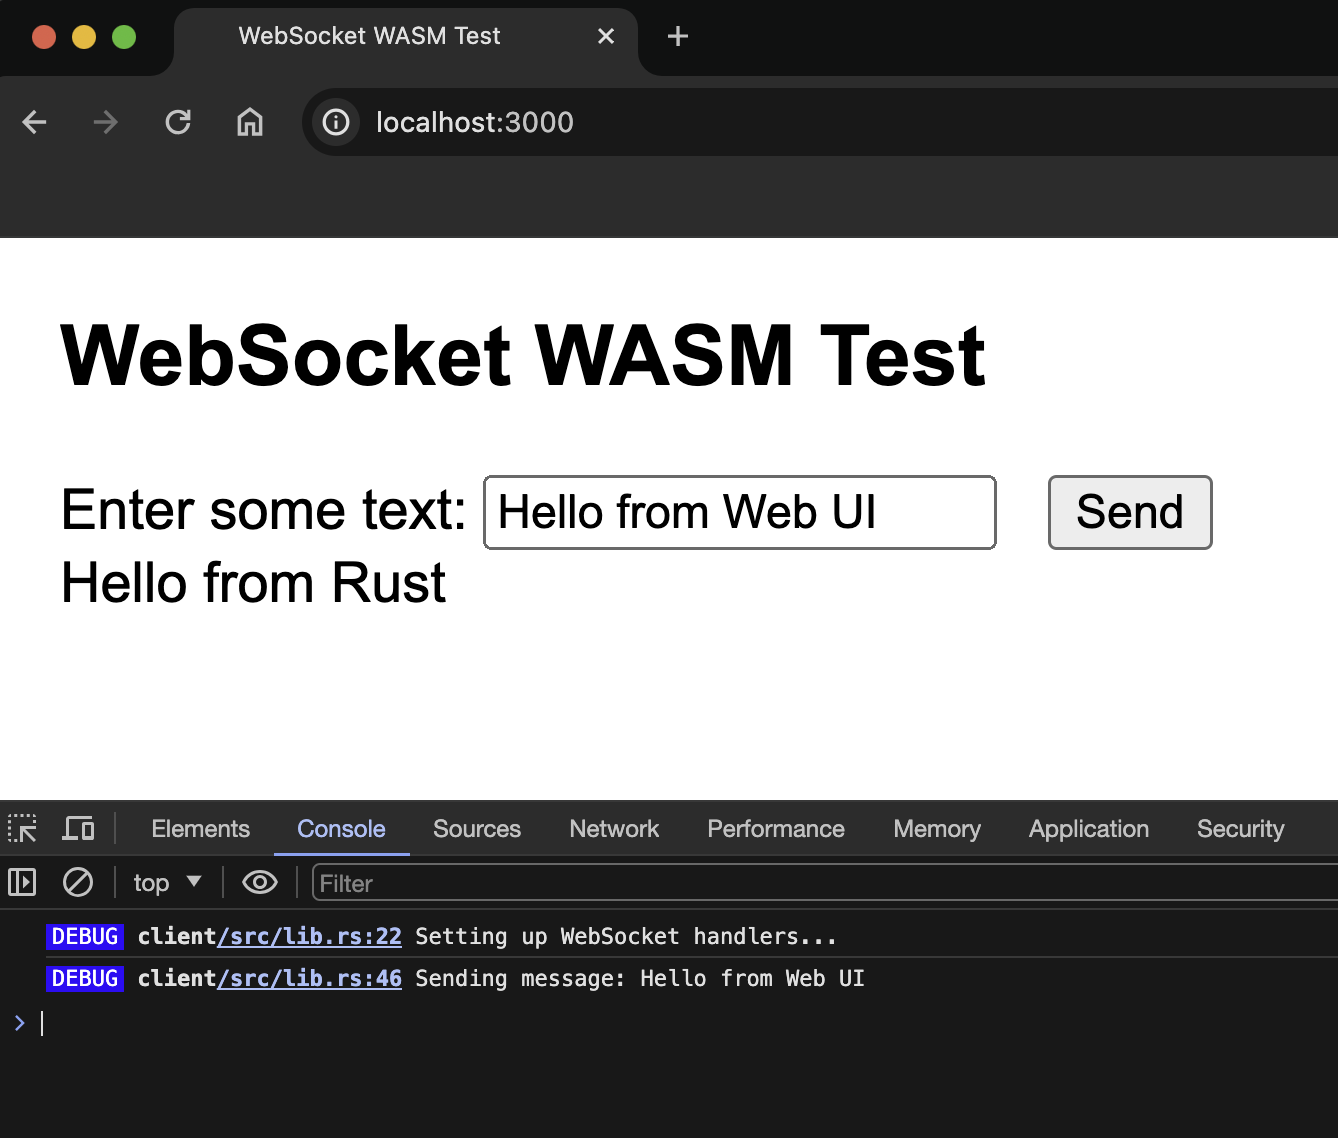
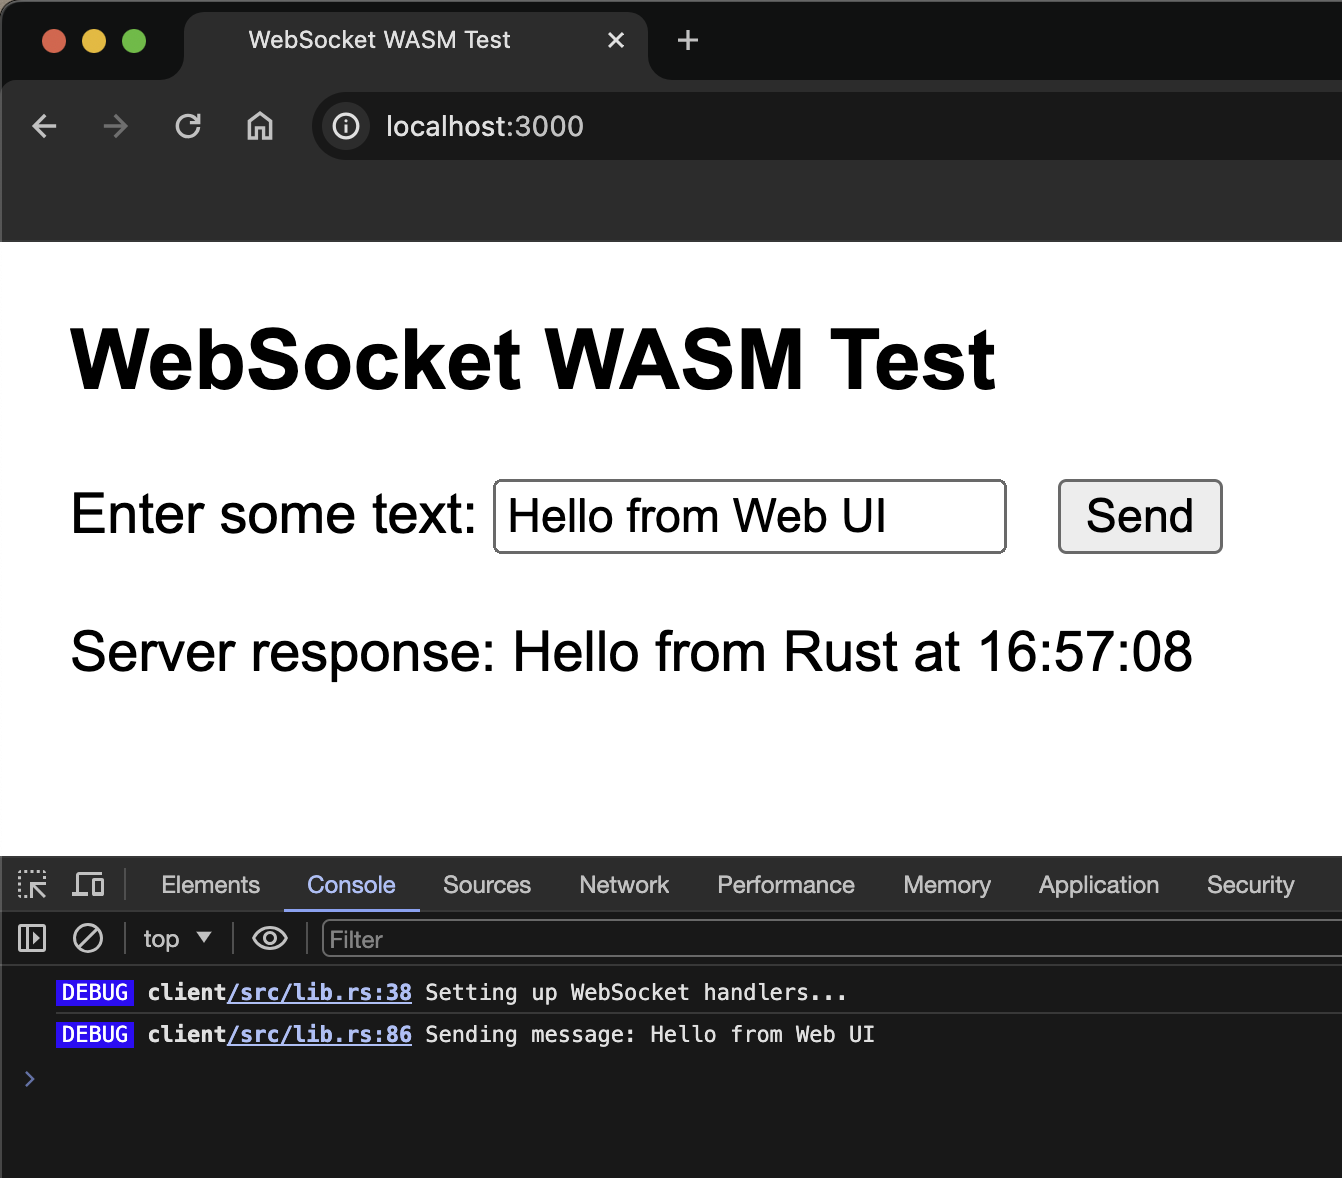
Update index.html & README.md

diff --git a/client/web/static/index.html b/client/web/static/index.html
@@ -14,7 +14,9 @@
     <input id="messageInput" value="Hello from WebSocket!">
     <button onclick="sendMessage()">Send</button>
 </div>
-<div id="result">(Server response will be shown here)</div>
+<br/>
+<label>Server response:</label>
+<span id="result">(will be shown here)</span>
 
 <script type="module">
     // Import the WASM module and required functions

diff --git a/client/web/README.md b/client/web/README.md
@@ -20,3 +20,4 @@ Server running at http://localhost:3000
 Click the `Send` button to check the request/response flow. It should display Websocket Server (`server/src/main.rs`) response. Also open the Browser `Console` tab to see relevant logs
 
 ![Missing Web UI test screenshot](./static/wasm_web_ui.png "Web UI test screenshot")
+![Missing Server CLI screenshot](./static/server_cli.png "Server CLI screenshot")
